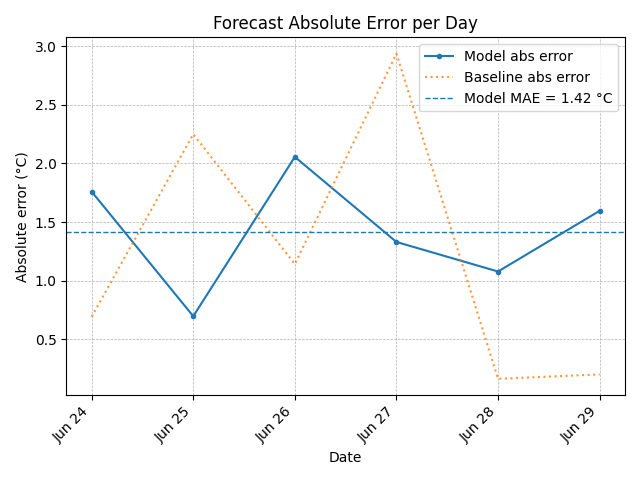
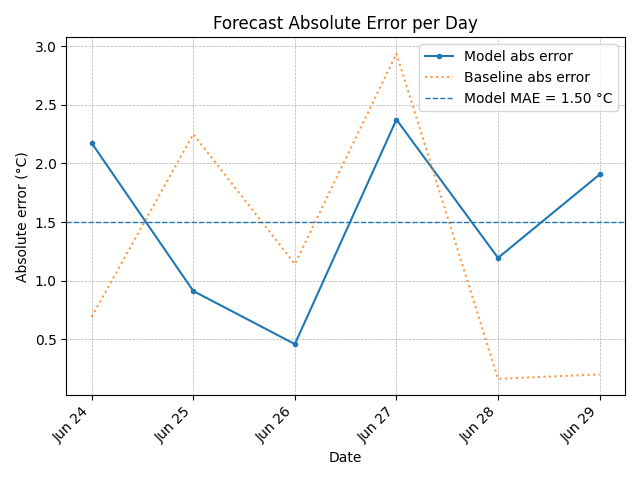
Add next-day temperature forecast with walk-forward validation

diff --git a/etl/predict_temperature.py b/etl/predict_temperature.py
@@ -8,20 +8,32 @@ Design notes (these are the interview talking points):
    are themselves Open-Meteo forecasts is target leakage: the model would just
    learn to copy the API. Everything here reads the observed-only history file.
 
-2. RIDGE, NOT A FOREST. At n~50 daily rows a tree ensemble overfits, and more
-   importantly trees cannot extrapolate: a RandomForest trained through June
-   can never predict a colder-than-training-set January. Temperature has real
-   trend and seasonality, so a regularised linear model is the honest choice
+2. RIDGE, NOT A FOREST. At n~50 daily rows a tree ensemble overfits, and trees
+   cannot extrapolate at all. A regularised linear model is the honest choice
    at this sample size.
 
 3. BASELINE OR IT DIDN'T HAPPEN. Every metric is reported next to persistence
-   ("tomorrow = today"), which is a surprisingly strong weather baseline.
-   A model that cannot beat persistence has no value, and saying so out loud
-   is the point of the accuracy report.
+   ("tomorrow = today"), a surprisingly strong weather baseline. A model that
+   cannot beat persistence has no value, and saying so is the point.
 
 4. WALK-FORWARD VALIDATION. A random train/test split on a time series leaks
-   the future into the past. Scoring here is expanding-window: to score day i,
-   fit only on days < i.
+   the future into the past. Scoring is expanding-window: to score day i, fit
+   only on days < i.
+
+5. TWO GUARDS AGAINST EXTRAPOLATION. Ridge's ability to extrapolate is a
+   double-edged sword. Trained on 21 days spanning February and June and then
+   asked about late August, the seasonal day-of-year features extrapolated to
+   a 40 C forecast for Toronto. So:
+
+     (a) The doy_sin/doy_cos seasonal pair is only used once the history
+         actually covers most of a year. Below that the seasonal cycle is not
+         identifiable and those features do more harm than good.
+
+     (b) Every prediction is bounded by a physical sanity check before it is
+         published, and any clamping is recorded rather than hidden.
+
+   Both guards apply inside the backtest too, so the reported accuracy is the
+   accuracy of what actually ships.
 """
 
 import os
@@ -40,16 +52,30 @@ PREDICTIONS_CSV = "reports/predictions.csv"
 METRICS_CSV     = "reports/prediction_metrics.csv"
 BACKTEST_CSV    = "reports/prediction_backtest.csv"
 
-# Features fed to the model. All are derived from days <= d to predict day d+1.
-FEATURE_COLS = [
+# Always-available features, derived from days <= d to predict day d + 1.
+BASE_FEATURES = [
     "temp_lag1", "temp_lag2", "temp_lag3",
     "temp_roll3", "temp_roll7",
     "temp_delta1",
     "precip_lag1", "wind_lag1",
-    "doy_sin", "doy_cos",
 ]
 
-MIN_TRAIN_ROWS = 15   # below this there is not enough history to fit anything
+# Seasonality. Only switched on once the history can actually support it.
+SEASONAL_FEATURES = ["doy_sin", "doy_cos"]
+
+# Everything build_features() produces — used for assembling the launch row.
+FEATURE_COLS = BASE_FEATURES + SEASONAL_FEATURES
+
+MIN_TRAIN_ROWS = 15    # below this there is not enough history to fit anything
+
+# Seasonal features need real coverage of the annual cycle before they mean
+# anything. Roughly: a year's worth of rows spanning most of a year.
+SEASONAL_MIN_ROWS      = 120
+SEASONAL_MIN_SPAN_DAYS = 300
+
+# Toronto's largest day-over-day change in daily MEAN temperature sits well
+# inside this. Anything beyond it is a model failure, not weather.
+MAX_DAILY_SWING_C = 12.0
 
 
 # ----------------------------------------------------------------------------
@@ -59,10 +85,10 @@ def load_daily_observed(location_id: int = 1) -> pd.DataFrame:
     """
     Read the accumulated daily observation history.
 
-    This deliberately reads the committed history file rather than the
-    warehouse: the warehouse only ever holds Open-Meteo's rolling window, so
-    querying it directly caps the model at ~2 weeks of training data no matter
-    how long the pipeline has been running.
+    Deliberately reads the committed history file rather than the warehouse:
+    the warehouse only ever holds Open-Meteo's rolling window, so querying it
+    directly caps the model at ~2 weeks of training data no matter how long
+    the pipeline has been running.
     """
     return load_daily_history(location_id)
 
@@ -74,13 +100,11 @@ def build_features(daily: pd.DataFrame) -> pd.DataFrame:
     """
     Turn the daily series into a supervised learning table.
 
-    One row per day d, with:
-      - features built only from information available on day d
-      - target = the observed average temperature on day d + 1
+    One row per day d, with features built only from information available on
+    day d, and target = the observed average temperature on day d + 1.
 
-    The history has calendar gaps (the pipeline only ever held a rolling window
-    before history was made durable). Reindexing onto a complete daily calendar
-    first means lags that span a gap come out as NaN and get dropped, rather
+    The history has calendar gaps. Reindexing onto a complete daily calendar
+    first means lags spanning a gap come out as NaN and get dropped, rather
     than silently pairing February with June.
     """
     if daily.empty:
@@ -125,12 +149,57 @@ def training_table(feat: pd.DataFrame) -> pd.DataFrame:
     return feat.dropna(subset=FEATURE_COLS + ["target_temp_c"]).reset_index(drop=True)
 
 
+def select_features(train_slice: pd.DataFrame) -> list:
+    """
+    Decide whether the seasonal pair has earned its place.
+
+    With only a few weeks of gappy history, doy_sin/doy_cos are not seasonality
+    — they are two arbitrary numbers that happen to separate the February rows
+    from the June rows, and the model leans on them hard. Asked about a date
+    outside that range, it extrapolates the sine wave into nonsense (this is
+    exactly how a 40 C August forecast for Toronto got published).
+
+    Computed from the slice the model is actually fitted on, so the backtest
+    makes the same decision the production run would have made on that date.
+    """
+    if len(train_slice) < SEASONAL_MIN_ROWS:
+        return list(BASE_FEATURES)
+
+    span_days = (train_slice["day"].max() - train_slice["day"].min()).days
+    if span_days < SEASONAL_MIN_SPAN_DAYS:
+        return list(BASE_FEATURES)
+
+    return list(BASE_FEATURES) + list(SEASONAL_FEATURES)
+
+
+def apply_sanity_bounds(pred: float, baseline: float,
+                        train_slice: pd.DataFrame):
+    """
+    Bound the prediction by physical plausibility before publishing it.
+
+    Two constraints, whichever is tighter:
+      - within MAX_DAILY_SWING_C of today's observed mean
+      - within 5 C of the range of temperatures ever observed
+
+    Returns (bounded_prediction, was_clamped). A clamp firing is a signal the
+    model is unhealthy, so it gets recorded in predictions.csv rather than
+    quietly swallowed.
+    """
+    lo = max(baseline - MAX_DAILY_SWING_C, train_slice["target_temp_c"].min() - 5.0)
+    hi = min(baseline + MAX_DAILY_SWING_C, train_slice["target_temp_c"].max() + 5.0)
+
+    if lo > hi:  # degenerate history — fall back to the swing bound alone
+        lo, hi = baseline - MAX_DAILY_SWING_C, baseline + MAX_DAILY_SWING_C
+
+    bounded = float(np.clip(pred, lo, hi))
+    return bounded, bool(abs(bounded - pred) > 1e-9)
+
+
 def _new_model():
     """
     RidgeCV picks its own regularisation strength by cross-validation, so there
-    is no hand-tuned magic number in the pipeline. Scaling first matters: ridge
-    penalises large coefficients, and the raw features are on wildly different
-    scales (degrees vs. mm vs. sine waves).
+    is no hand-tuned magic number. Scaling first matters: ridge penalises large
+    coefficients, and the raw features are on wildly different scales.
     """
     return make_pipeline(
         StandardScaler(),
@@ -143,30 +212,36 @@ def _new_model():
 # ----------------------------------------------------------------------------
 def backtest(train: pd.DataFrame, min_train: int = MIN_TRAIN_ROWS) -> pd.DataFrame:
     """
-    Expanding-window validation. For each day i past the warm-up period, fit on
-    days 0..i-1 only and predict day i. This is the only way to get an honest
-    error estimate on a time series.
+    Expanding-window validation. For each day i past the warm-up, fit on days
+    0..i-1 only and predict day i.
 
-    Returns one row per scored day, model prediction and baseline side by side.
+    Feature selection and sanity bounds are applied per fold, so these numbers
+    describe the system that actually ships — not an idealised version of it.
     """
     rows = []
     if len(train) <= min_train:
         return pd.DataFrame(rows)
 
-    X = train[FEATURE_COLS].to_numpy()
-    y = train["target_temp_c"].to_numpy()
-
     for i in range(min_train, len(train)):
+        past = train.iloc[:i]
+        cols = select_features(past)
+
         model = _new_model()
-        model.fit(X[:i], y[:i])
-        pred = float(model.predict(X[i:i + 1])[0])
+        model.fit(past[cols], past["target_temp_c"])
+
+        raw      = float(model.predict(train.iloc[i:i + 1][cols])[0])
+        baseline = float(train.loc[i, "temp_lag1"])
+        pred, clamped = apply_sanity_bounds(raw, baseline, past)
 
         rows.append({
             "target_day":       train.loc[i, "target_day"],
-            "actual_temp_c":    float(y[i]),
+            "actual_temp_c":    float(train.loc[i, "target_temp_c"]),
             "predicted_temp_c": pred,
+            "raw_model_temp_c": raw,
+            "clamped":          clamped,
             # Persistence baseline: "tomorrow will be like today".
-            "baseline_temp_c":  float(train.loc[i, "temp_lag1"]),
+            "baseline_temp_c":  baseline,
+            "n_features":       len(cols),
         })
 
     out = pd.DataFrame(rows)
@@ -188,18 +263,18 @@ def summarise(bt: pd.DataFrame) -> dict:
     model_rmse = _rmse(bt["predicted_temp_c"] - bt["actual_temp_c"])
     base_rmse  = _rmse(bt["baseline_temp_c"]  - bt["actual_temp_c"])
 
-    # Skill score: the fraction of the baseline's error the model removes.
-    # Positive = better than persistence, negative = worse. Publishing this
-    # honestly is the whole point of the section.
+    # Skill: the share of the baseline's error the model removes. Positive =
+    # better than persistence, negative = worse. Published either way.
     skill = (base_mae - model_mae) / base_mae if base_mae > 0 else float("nan")
 
     return {
-        "n_scored_days":         int(len(bt)),
-        "model_mae_c":           round(model_mae, 3),
-        "model_rmse_c":          round(model_rmse, 3),
-        "baseline_mae_c":        round(base_mae, 3),
-        "baseline_rmse_c":       round(base_rmse, 3),
-        "skill_vs_persistence":  round(skill, 3),
+        "n_scored_days":        int(len(bt)),
+        "model_mae_c":          round(model_mae, 3),
+        "model_rmse_c":         round(model_rmse, 3),
+        "baseline_mae_c":       round(base_mae, 3),
+        "baseline_rmse_c":      round(base_rmse, 3),
+        "skill_vs_persistence": round(skill, 3),
+        "n_clamped":            int(bt["clamped"].sum()),
     }
 
 
@@ -209,8 +284,8 @@ def summarise(bt: pd.DataFrame) -> dict:
 def predict_next_day(location_id: int = 1) -> dict:
     """
     Full prediction step. Returns a dict the README writer consumes.
-    Degrades gracefully: too little history simply skips the forecast rather
-    than crashing the pipeline.
+    Degrades gracefully: too little history skips the forecast rather than
+    crashing the pipeline.
     """
     os.makedirs("reports", exist_ok=True)
 
@@ -223,6 +298,9 @@ def predict_next_day(location_id: int = 1) -> dict:
         "target_day":       None,
         "predicted_temp_c": None,
         "baseline_temp_c":  None,
+        "seasonal_used":    False,
+        "n_features":       0,
+        "clamped":          False,
         "metrics":          {},
     }
 
@@ -242,22 +320,28 @@ def predict_next_day(location_id: int = 1) -> dict:
         bt_out.to_csv(BACKTEST_CSV, index=False)
 
     # --- fit on ALL history, then forecast the next day ---
-    model = _new_model()
-    model.fit(train[FEATURE_COLS], train["target_temp_c"])
+    cols = select_features(train)
+    result["seasonal_used"] = "doy_sin" in cols
+    result["n_features"]    = len(cols)
 
-    # The most recent day with a complete feature row is the launch point,
-    # even though its target (tomorrow) hasn't happened yet.
+    model = _new_model()
+    model.fit(train[cols], train["target_temp_c"])
+
+    # Most recent day with a complete feature row is the launch point, even
+    # though its target (tomorrow) hasn't happened yet.
     launch = feat.dropna(subset=FEATURE_COLS)
     launch = launch[launch["day"] == launch["day"].max()]
 
-    pred       = float(model.predict(launch[FEATURE_COLS])[0])
-    target_day = pd.Timestamp(launch["day"].iloc[0]) + pd.Timedelta(days=1)
-    baseline   = float(launch["temp_lag1"].iloc[0])
+    raw           = float(model.predict(launch[cols])[0])
+    baseline      = float(launch["temp_lag1"].iloc[0])
+    pred, clamped = apply_sanity_bounds(raw, baseline, train)
+    target_day    = pd.Timestamp(launch["day"].iloc[0]) + pd.Timedelta(days=1)
 
     result.update({
         "target_day":       target_day.date().isoformat(),
         "predicted_temp_c": round(pred, 2),
         "baseline_temp_c":  round(baseline, 2),
+        "clamped":          clamped,
     })
 
     # --- append to the prediction log (one row per forecast ever made) ---
@@ -265,9 +349,13 @@ def predict_next_day(location_id: int = 1) -> dict:
         "predicted_on":     date.today().isoformat(),
         "target_day":       result["target_day"],
         "predicted_temp_c": result["predicted_temp_c"],
+        "raw_model_temp_c": round(raw, 2),
+        "clamped":          clamped,
         "baseline_temp_c":  result["baseline_temp_c"],
         "trained_rows":     result["trained_rows"],
-        "model":            "RidgeCV(standardised, 10 features)",
+        "n_features":       len(cols),
+        "seasonal_used":    result["seasonal_used"],
+        "model":            "RidgeCV(standardised)",
     }])
 
     if os.path.exists(PREDICTIONS_CSV):
@@ -288,8 +376,13 @@ def predict_next_day(location_id: int = 1) -> dict:
 
     print(f"Forecast for {result['target_day']}: {result['predicted_temp_c']} C "
           f"(persistence baseline {result['baseline_temp_c']} C)")
+    print(f"  features: {len(cols)} "
+          f"({'seasonal ON' if result['seasonal_used'] else 'seasonal OFF — not enough annual coverage'})")
+    if clamped:
+        print(f"  WARNING: raw model output {raw:.2f} C was outside physical "
+              f"bounds and was clamped to {pred:.2f} C.")
     if metrics:
-        print(f"Backtest over {metrics['n_scored_days']} days — "
+        print(f"  backtest over {metrics['n_scored_days']} days — "
               f"model MAE {metrics['model_mae_c']} C vs "
               f"persistence MAE {metrics['baseline_mae_c']} C "
               f"(skill {metrics['skill_vs_persistence']:+.1%})")

diff --git a/etl/readme_prediction_section.py b/etl/readme_prediction_section.py
@@ -23,10 +23,22 @@ def prediction_section_lines(prediction: dict | None) -> list[str]:
         f"- Persistence baseline (\"same as today\"): "
         f"{prediction['baseline_temp_c']} °C\n"
     )
+    n_feat = prediction.get("n_features") or 0
     lines.append(
-        f"- Model: RidgeCV on 10 engineered features, "
-        f"trained on {prediction['trained_rows']} observed days\n\n"
+        f"- Model: RidgeCV on {n_feat} engineered features, "
+        f"trained on {prediction['trained_rows']} observed days\n"
     )
+    if not prediction.get("seasonal_used", False):
+        lines.append(
+            "- Seasonal (day-of-year) features are **disabled** until the history "
+            "covers most of a year — with partial coverage they extrapolate badly\n"
+        )
+    if prediction.get("clamped", False):
+        lines.append(
+            "- This forecast was **clamped** to physically plausible bounds; "
+            "the raw model output was out of range\n"
+        )
+    lines.append("\n")
 
     if m:
         skill = m.get("skill_vs_persistence")

diff --git a/README.md b/README.md
@@ -30,9 +30,10 @@ All data is pulled from **[Open-Meteo](https://open-meteo.com/)** — a free, op
 
 ## Next-Day Forecast (model output)
 
-- Forecast for **2026-08-24**: **40.07 °C** average temperature
+- Forecast for **2026-08-24**: **18.67 °C** average temperature
 - Persistence baseline ("same as today"): 17.44 °C
-- Model: RidgeCV on 10 engineered features, trained on 21 observed days
+- Model: RidgeCV on 8 engineered features, trained on 21 observed days
+- Seasonal (day-of-year) features are **disabled** until the history covers most of a year — with partial coverage they extrapolate badly
 
 ### Accuracy (walk-forward backtest)
 
@@ -40,11 +41,11 @@ Every forecast below was made using only data available *before* the day it pred
 
 | Metric | Model | Persistence baseline |
 |---|---|---|
-| MAE (°C) | **1.419** | 1.231 |
-| RMSE (°C) | **1.488** | 1.609 |
+| MAE (°C) | **1.503** | 1.231 |
+| RMSE (°C) | **1.657** | 1.609 |
 | Days scored | 6 | 6 |
 
-**Skill score vs persistence: -15.3%** — currently not yet beating the baseline. Skill is the share of the baseline's error the model removes; it is published whether it is positive or negative.
+**Skill score vs persistence: -22.2%** — currently not yet beating the baseline. Skill is the share of the baseline's error the model removes; it is published whether it is positive or negative.
 
 ![Forecast vs Actual](reports/charts/forecast_vs_actual_30d.png)
 
